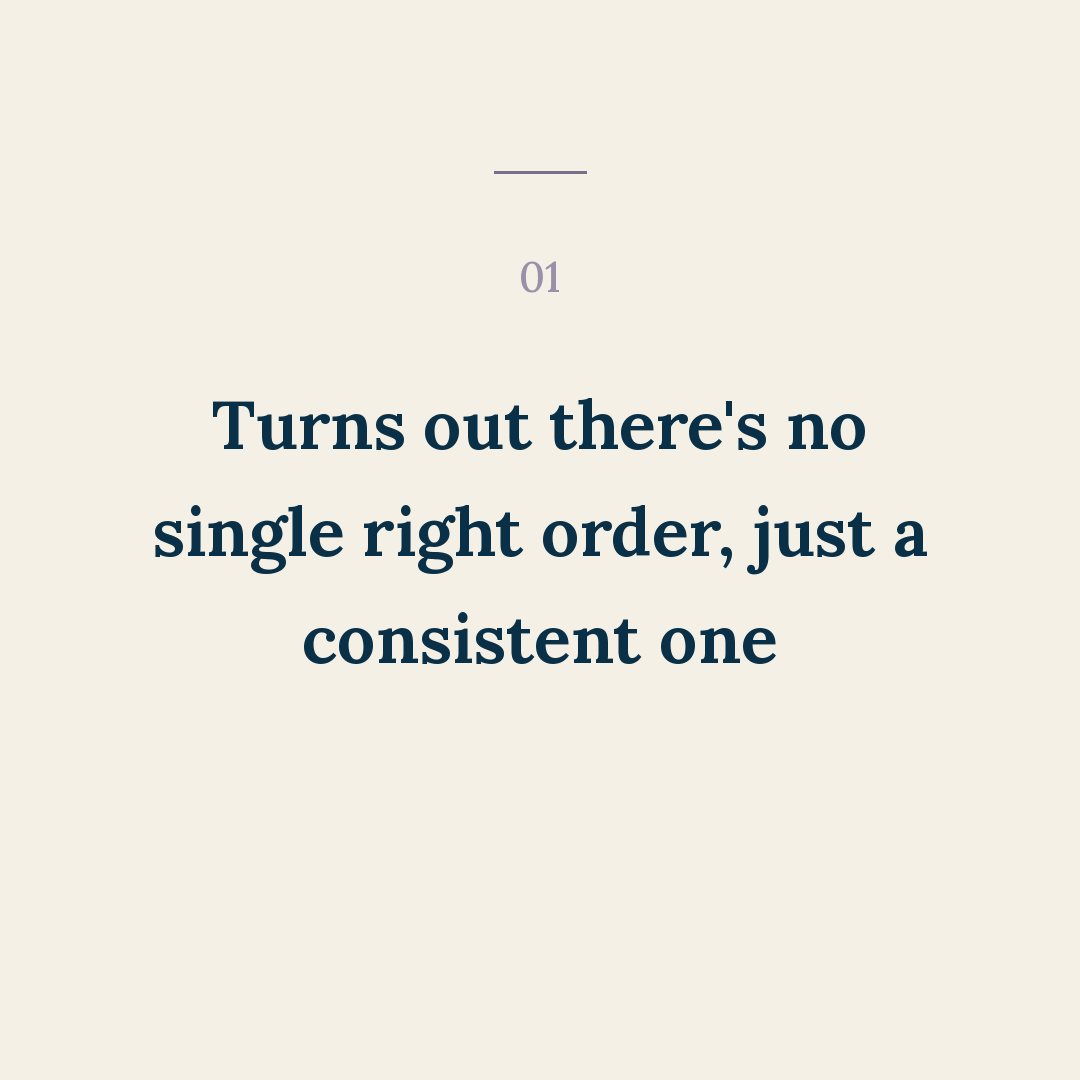
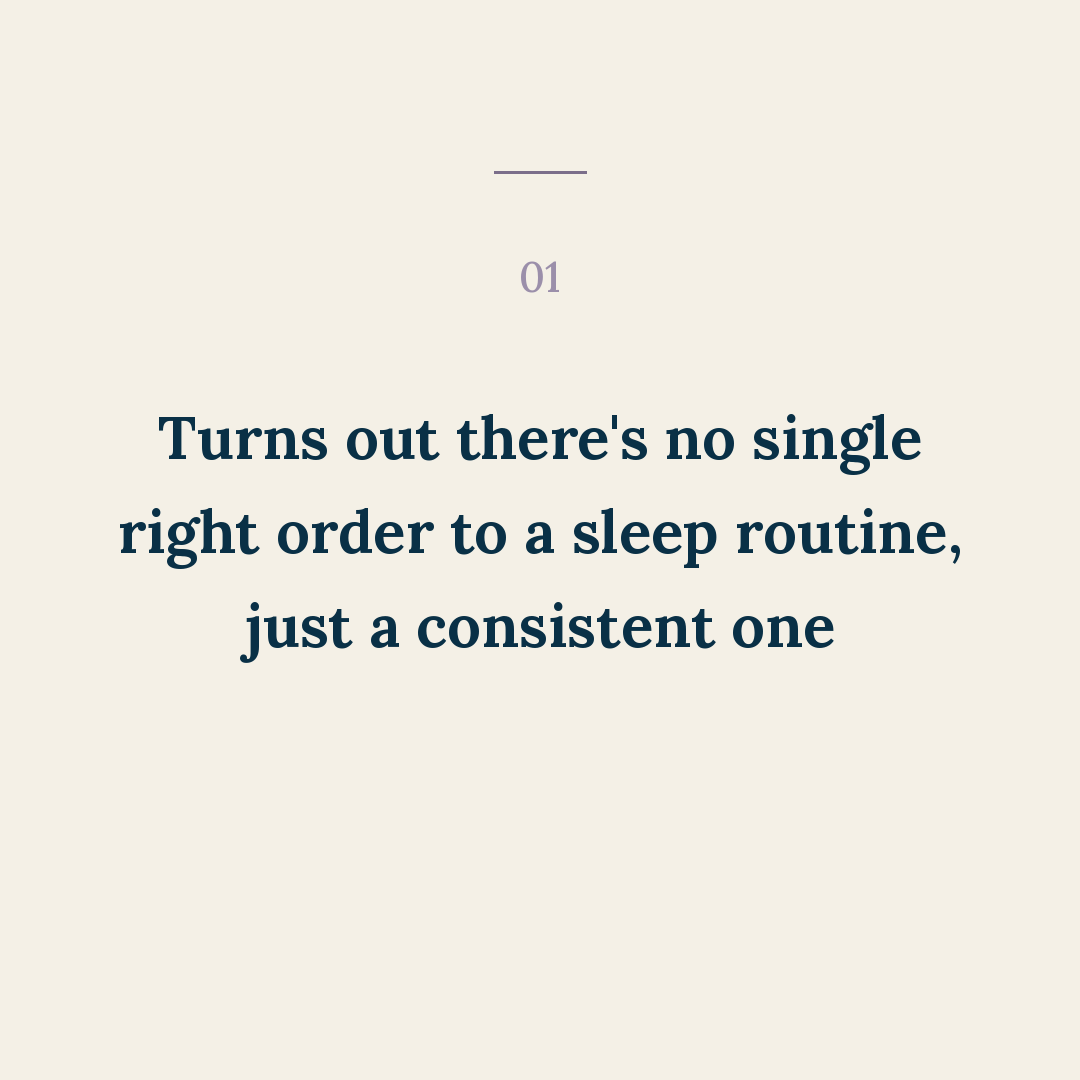
Add 60-thought-i-was-doing-bedtime-wrong (60 - Thought I Was Doing Bedtime Wrong)

Changed region(s): [[0.0917, 0.3667, 0.8861, 0.6111]]

diff --git a/posts/60-thought-i-was-doing-bedtime-wrong/slides.md b/posts/60-thought-i-was-doing-bedtime-wrong/slides.md
@@ -6,13 +6,15 @@ Format: carousel · bg cream · Sleep · hook #47 (confession)
 I thought I was doing bedtime wrong…
 
 ## Items
-01  Turns out there's no single right order, just a consistent one
+01  Turns out there's no single right order to a sleep routine, just a consistent one
 02  The routine matters more than which parent does it
 03  Some nights it'll still fall apart, and that's not a failed routine
 04  A short, repeatable set of cues works better than a long one
 05  "Good enough and consistent" beats "perfect and different every night"
 
 ## Closer (save)
-Save this if bedtime has ever felt like you're winging it.
+Save this if bedtime has ever felt like you're winging it, and you need a reminder that consistency will eventually pay off
+
+REVISED 2026-08-16 per Ben's review (slide 1 + closer wording).
 
 Render with render_cover / render_items_for_post / render_follow (render_save alias), weight 650, bg BG_CREAM.
